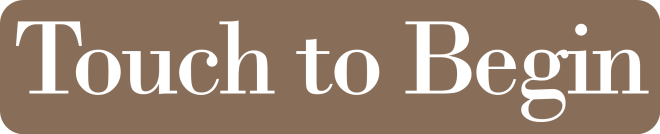
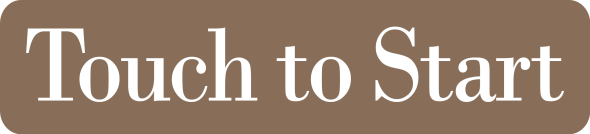
changed touch to start prompt and fixed path layout

Changed region(s): [[0.0, 0.1493, 1.0, 0.9254], [0.8542, 0.1791, 0.9153, 0.2687]]

diff --git a/front/mainmap.html b/front/mainmap.html
@@ -459,16 +459,16 @@
             height: auto;
         }
         #blue-path {
-            left: 17.37%;
-            top: 11.58%;
-            width: 56.59%;
-            height: auto;
+            left: 16.9%;
+            top: 10.95%;
+            width: 57.1%;
+            height: 44.8%;
         }
         #orange-path {
             left: 12.97%;
             top: 21.04%;
             width: 23.91%;
-            height: auto;
+            height: 65%;
             display: none;
         }
         .dark-overlay {
